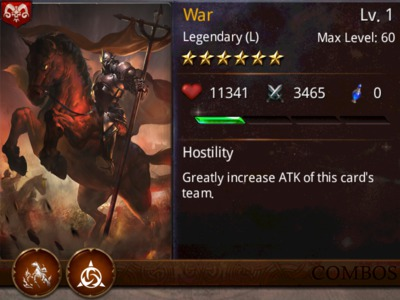
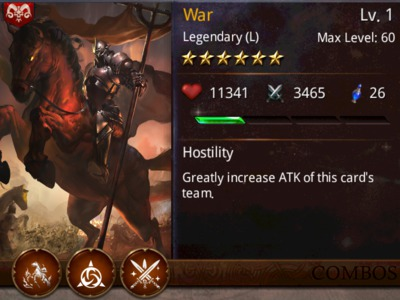
Add Battleborn and Paragons of War combos

Changed region(s): [[0.0, 0.0, 0.45, 1.0], [0.93, 0.27, 0.96, 0.33]]

diff --git a/cards.js b/cards.js
@@ -31,7 +31,7 @@ var cards = [
   new Card("Berserker", "Druid", 4, "", 40, 4740, 1776, ["Bruisers","Brute Force","Tribal Fury",]),
   new Card("Black Knight", "Demon", 4, "", 40, 4320, 1368, ["Twin Knights","Enigmatic Knights","Generals",]),
   new Card("Blacksmith", "Camelot", 2, 8, 20, 2765, 670, []),
-  new Card("Blademaster", "Camelot", 5, "", 50, 7885, 2508, ["Augmented Arms","Hot Blooded","Back to Back","Disciplined","Final Stand",]),
+  new Card("Blademaster", "Camelot", 5, 19, 50, 7885, 2508, ["Augmented Arms","Hot Blooded","Back to Back","Disciplined","Final Stand","Battleborn",]),
   new Card("Blood Briar", "Druid", 3, 8, 30, 3030, 969, ["Thorny Threat",]),
   new Card("Bourgard", "Demon", 4, "", 40, 4320, 1368, ["King Size Weapons","Hooded Terrors","Body Count",]),
   new Card("Butcher of Princes", "Demon", 5, "", 50, 9999, 2222, ["Body Count",]),
@@ -169,17 +169,17 @@ var cards = [
   new Card("Unicorn", "Camelot", 1, 5, 10, 1480, 365, []),
   new Card("Vambrael", "Camelot", 6, 20, 60, 11830, 2780, ["Divine Intervention","Gods and Heroes","Gods","Celestials","Elite Force","Righteous Fury",]),
   new Card("Vanguard", "Camelot", 4, "", 40, 4785, 1780, ["Bruisers","Assault Team","Burst Damage",]),
-  new Card("Veteran Paladin", "Camelot", 6, "", 60, 10857, 3565, ["Jack of all Trades","Augmented Arms","Hot Blooded",]),
+  new Card("Veteran Paladin", "Camelot", 6, 23, 60, 10857, 3565, ["Jack of all Trades","Augmented Arms","Hot Blooded","Paragons of War","Battleborn",]),
   new Card("Violet Knight", "Camelot", 5, 17, 50, 8765, 1944, ["Romantic Knights","Enchanted Weapons",]),
   new Card("Vortigern", "Demon", 6, "", 60, 11830, 2780, ["League of the Damned",]),
-  new Card("War", "Demon", 6, "", 60, 11341, 3465, ["Four Horsemen","Ultimate Fighters",]),
+  new Card("War", "Demon", 6, 26, 60, 11341, 3465, ["Four Horsemen","Ultimate Fighters","Paraons of War",]),
   new Card("War Cleric", "Camelot", 3, 7, 30, 2841, 706, ["Holy Men","Twin Clerics",]),
-  new Card("War Drummer", "Druid", 5, "", 50, 7409, 2269, ["Martial Music","Tribal Fury",]),
+  new Card("War Drummer", "Druid", 5, 18, 50, 7409, 2269, ["Martial Music","Tribal Fury","Battleborn",]),
   new Card("War Hound", "Camelot", 2, 6, 20, 2050, 505, []),
   new Card("Warrior Monk", "Camelot", 2, 5, 20, 1680, 420, []),
   new Card("Water Elemental", "Camelot", 4, 11, 40, 5200, 1250, ["Summoned Minions","Elemental Fury",]),
   new Card("Water Nymph", "Druid", 1, 5, 10, 1360, 430, ["Tide Lurkers",]),
-  new Card("Weapon Master", "Camelot", 6, "", 60, 11240, 3040, ["Augmented Arms","Hired Steel","Back to Back","Final Stand","Champions",]),
+  new Card("Weapon Master", "Camelot", 6, 22, 60, 11240, 3040, ["Augmented Arms","Hired Steel","Back to Back","Final Stand","Champions","Paragons of War","Battleborn",]),
   new Card("White Knight", "Camelot", 6, 22, 50, 13013, 3058, ["Fallen Heroes","Enigmatic Knights","Righteous Fury","Shining Armor","Opposite Ends","Crack Knights",]),
   new Card("Wild Hunt", "Druid", 3, "", 30, 3840, 1202, ["Stag Herder","Stag Pack",]),
   new Card("Winter Treekin", "Druid", 4, 15, 40, 5440, 1712, ["Polar",]),

diff --git a/combos.js b/combos.js
@@ -6,6 +6,7 @@ var combos = [
   new Combo("Assault Team", "Passive - Raise team's MAX HP by 25%", ["Vanguard","Archmage","Paladin",]),
   new Combo("Augmented Arms", "Passive - Raise team's ATK by 110%", ["Veteran Paladin","Moira","Weapon Master","Blademaster",]),
   new Combo("Back to Back", "Passive - Reduce damage by 30%", ["Weapon Master","Blademaster",]),
+  new Combo("Battleborn", "Passive - Raise team's ATK by 75%, Skill proc +15%", ["Veteran Paladin","Weapon Master","Blademaster","War Drummer",]),
   new Combo("Behemoths", "Passive - Raise team's MAX HP by 150%", ["Ancient Archelon","Mammoth Beetle","Galzra",]),
   new Combo("Beyond Redemption", "Remove 50% of enemy team's current HP", ["Famine","Jezebel the Shriek","Morbius the Cursed","Father Maleficent",]),
   new Combo("Blessed Knight Rider", "Passive - Reduce damage by 20%", ["Grail Knight","Armored Warhorse","Guardian Angel",]),
@@ -97,6 +98,7 @@ var combos = [
   new Combo("Noobs", "Passive - Increase Skill Proc of team members by 5%", ["Squire","Apprentice","Druid Initiate",]),
   new Combo("On the Hunt", "Passive - Raise team's ATK by 25%", ["Phantom Panther","Ranger",]),
   new Combo("Opposite Ends", "Increase ATK by 300% when HP falls below 10%", ["Death","Hope","Gaznar Soulripper","White Knight",]),
+  new Combo("Paragons of War", "Passive - Raise team's ATK by 175%", ["War","Weapon Master","Veteran Paladin",]),
   new Combo("Patriots", "Passive - Raise team's ATK by 74%", ["Bald Eagle","Grillmaster",]),
   new Combo("Pet Familiars", "Remove 80% of enemy team's current HP", ["Moira","Arcane Archer","Balzathor","Silverheart",]),
   new Combo("Phoenix Fury", "Revive team with 50% HP upon death", ["Ben-nu Frostborn","Ben-nu Skyborn","Ben-nu Hellborn","Ben-nu Fireborn",]),
